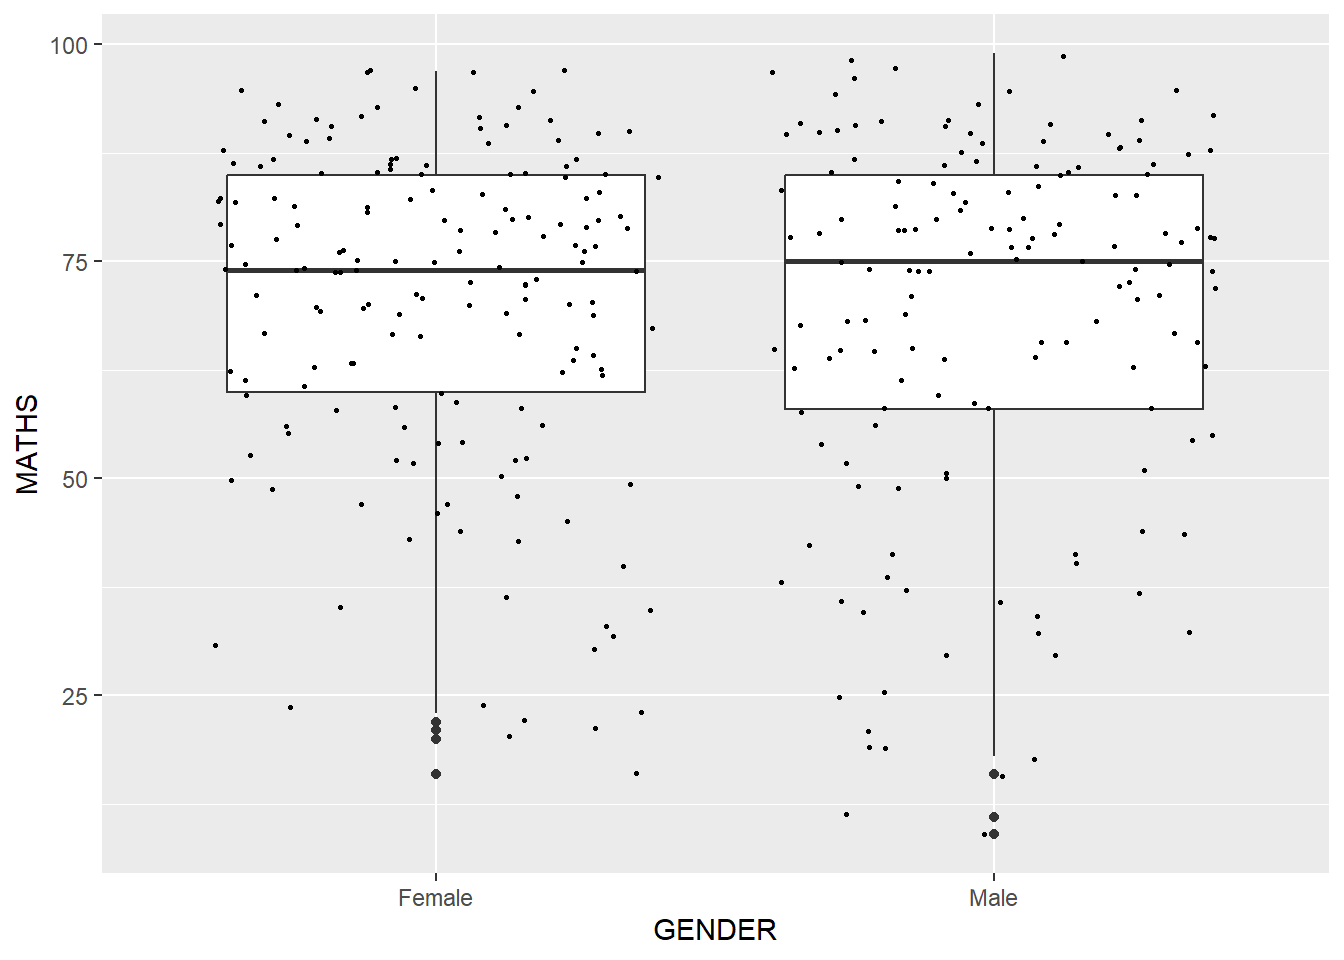
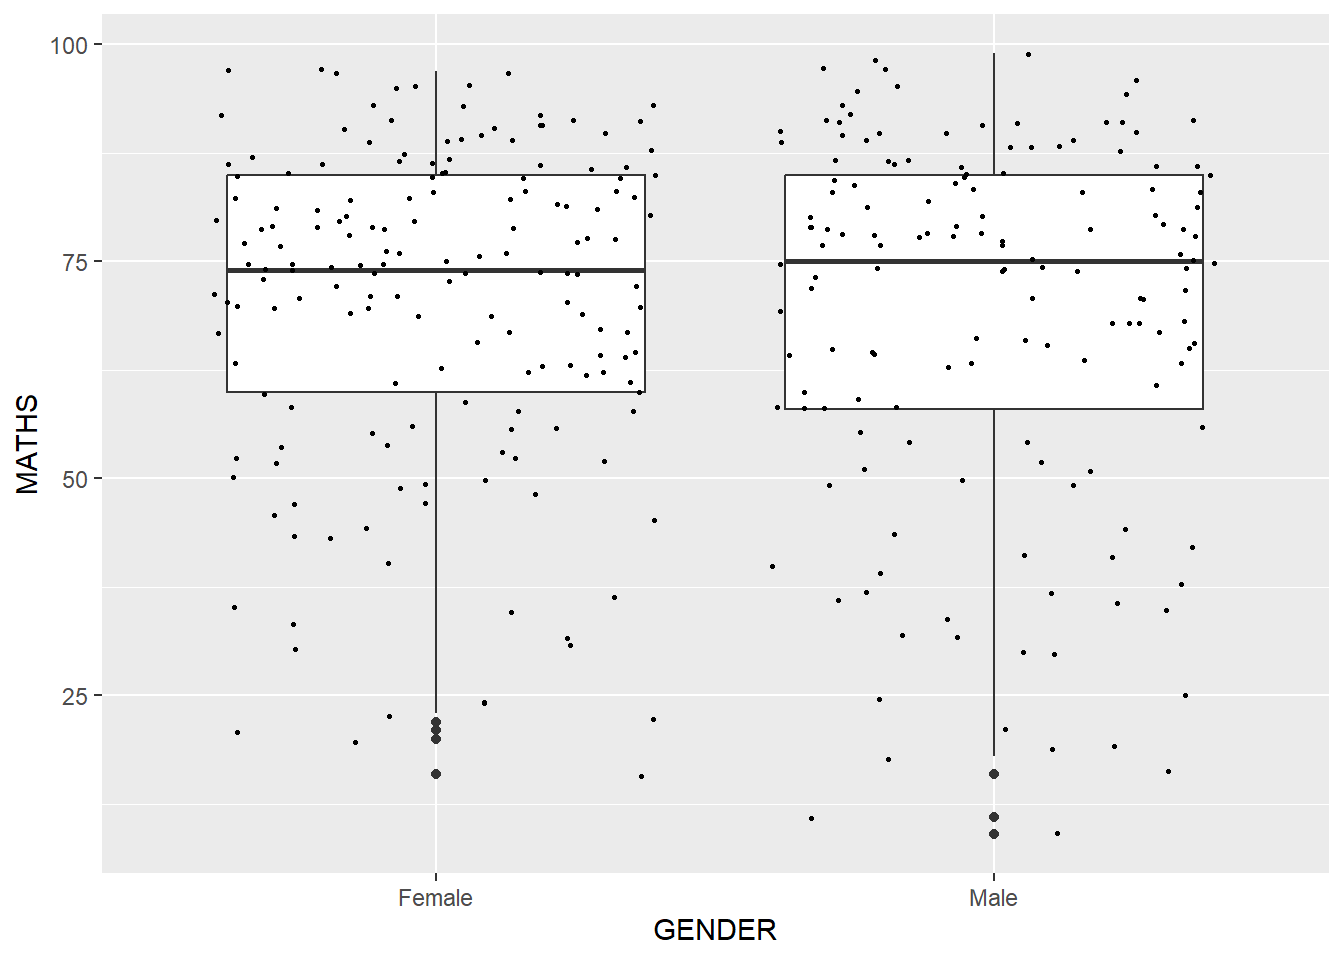
exercise3b

Changed region(s): [[0.2812, 0.1562, 0.3438, 0.1875]]

diff --git a/_site/Hands-on-Ex/Hands-on_Ex01/Hands-on_Ex01.html b/_site/Hands-on-Ex/Hands-on_Ex01/Hands-on_Ex01.html
@@ -140,11 +140,11 @@ pre > code.sourceCode > span > a:first-child::before { text-decoration: underlin
  <span class="dropdown-text">Hands-on Exercise 2</span></a>
   </li>  
         <li>
-    <a class="dropdown-item" href="../../Hands-on-Ex/Hands-on_Ex02/Hands-on_Ex03a.html">
+    <a class="dropdown-item" href="../../Hands-on-Ex/Hands-on_Ex03/Hands-on_Ex03a.html">
  <span class="dropdown-text">Hands-on Exercise 3a</span></a>
   </li>  
         <li>
-    <a class="dropdown-item" href="../../Hands-on-Ex/Hands-on_Ex02/Hands-on_Ex03b.html">
+    <a class="dropdown-item" href="../../Hands-on-Ex/Hands-on_Ex03/Hands-on_Ex03b.html">
  <span class="dropdown-text">Hands-on Exercise 3b</span></a>
   </li>  
     </ul>

diff --git a/_site/Hands-on-Ex/Hands-on_Ex02/Hands-on_Ex02.html b/_site/Hands-on-Ex/Hands-on_Ex02/Hands-on_Ex02.html
@@ -140,11 +140,11 @@ pre > code.sourceCode > span > a:first-child::before { text-decoration: underlin
  <span class="dropdown-text">Hands-on Exercise 2</span></a>
   </li>  
         <li>
-    <a class="dropdown-item" href="../../Hands-on-Ex/Hands-on_Ex02/Hands-on_Ex03a.html">
+    <a class="dropdown-item" href="../../Hands-on-Ex/Hands-on_Ex03/Hands-on_Ex03a.html">
  <span class="dropdown-text">Hands-on Exercise 3a</span></a>
   </li>  
         <li>
-    <a class="dropdown-item" href="../../Hands-on-Ex/Hands-on_Ex02/Hands-on_Ex03b.html">
+    <a class="dropdown-item" href="../../Hands-on-Ex/Hands-on_Ex03/Hands-on_Ex03b.html">
  <span class="dropdown-text">Hands-on Exercise 3b</span></a>
   </li>  
     </ul>